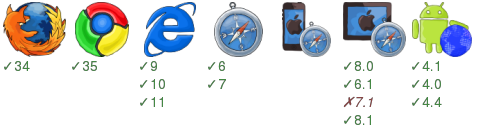
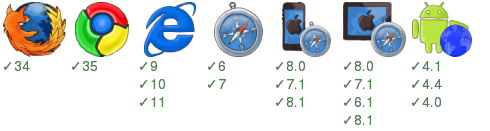
Auto commit smoke test results for c7cd6e5111230c897875c8198dad2eac4a6a073b [ci skip]

diff --git a/examples/00hello/badge.html b/examples/00hello/badge.html
@@ -28,16 +28,19 @@ div{vertical-align:top;overflow:hidden;display:inline-block;width:92px;padding:4
 <p>&#x2713;7</p>
 </div><div>
 <img src="/home/travis/build/zordius/fluxex/examples/00hello/node_modules/badge-render/browser-badge/static/iphone.png" />
+<p>&#x2713;8.0</p>
+<p>&#x2713;7.1</p>
+<p>&#x2713;8.1</p>
 </div><div>
 <img src="/home/travis/build/zordius/fluxex/examples/00hello/node_modules/badge-render/browser-badge/static/ipad.png" />
 <p>&#x2713;8.0</p>
+<p>&#x2713;7.1</p>
 <p>&#x2713;6.1</p>
-<i>&#x2717;7.1</i>
 <p>&#x2713;8.1</p>
 </div><div>
 <img src="/home/travis/build/zordius/fluxex/examples/00hello/node_modules/badge-render/browser-badge/static/android-browser.png" />
 <p>&#x2713;4.1</p>
-<p>&#x2713;4.0</p>
 <p>&#x2713;4.4</p>
+<p>&#x2713;4.0</p>
 </div></body>
 </html>
